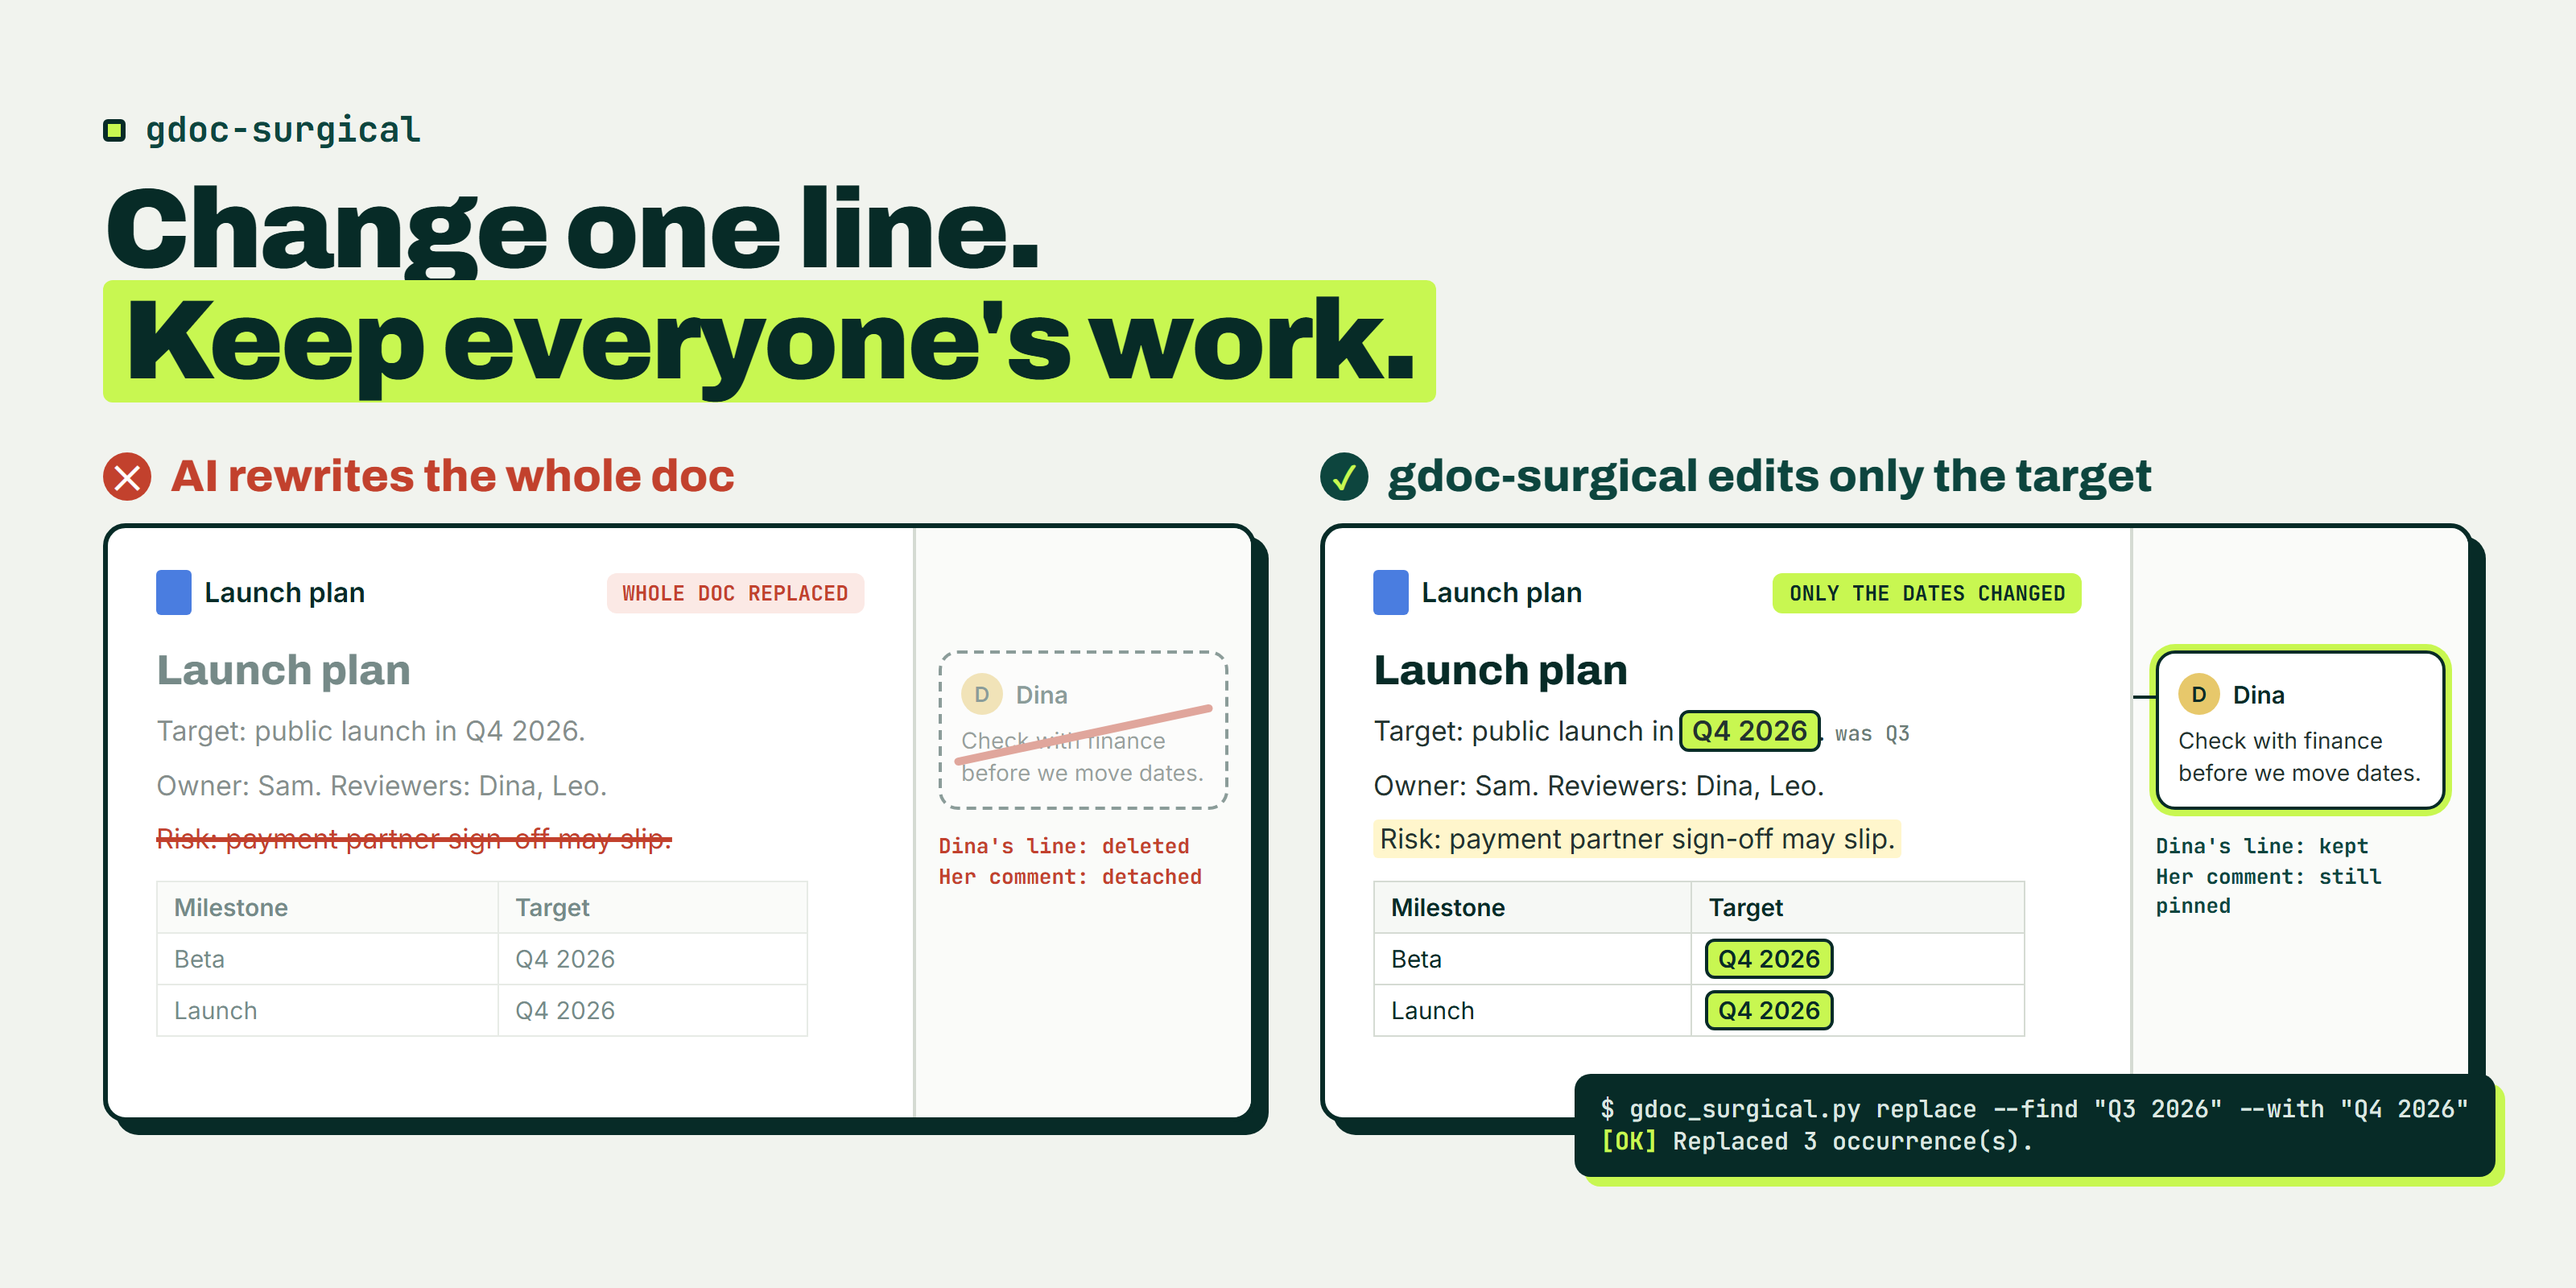
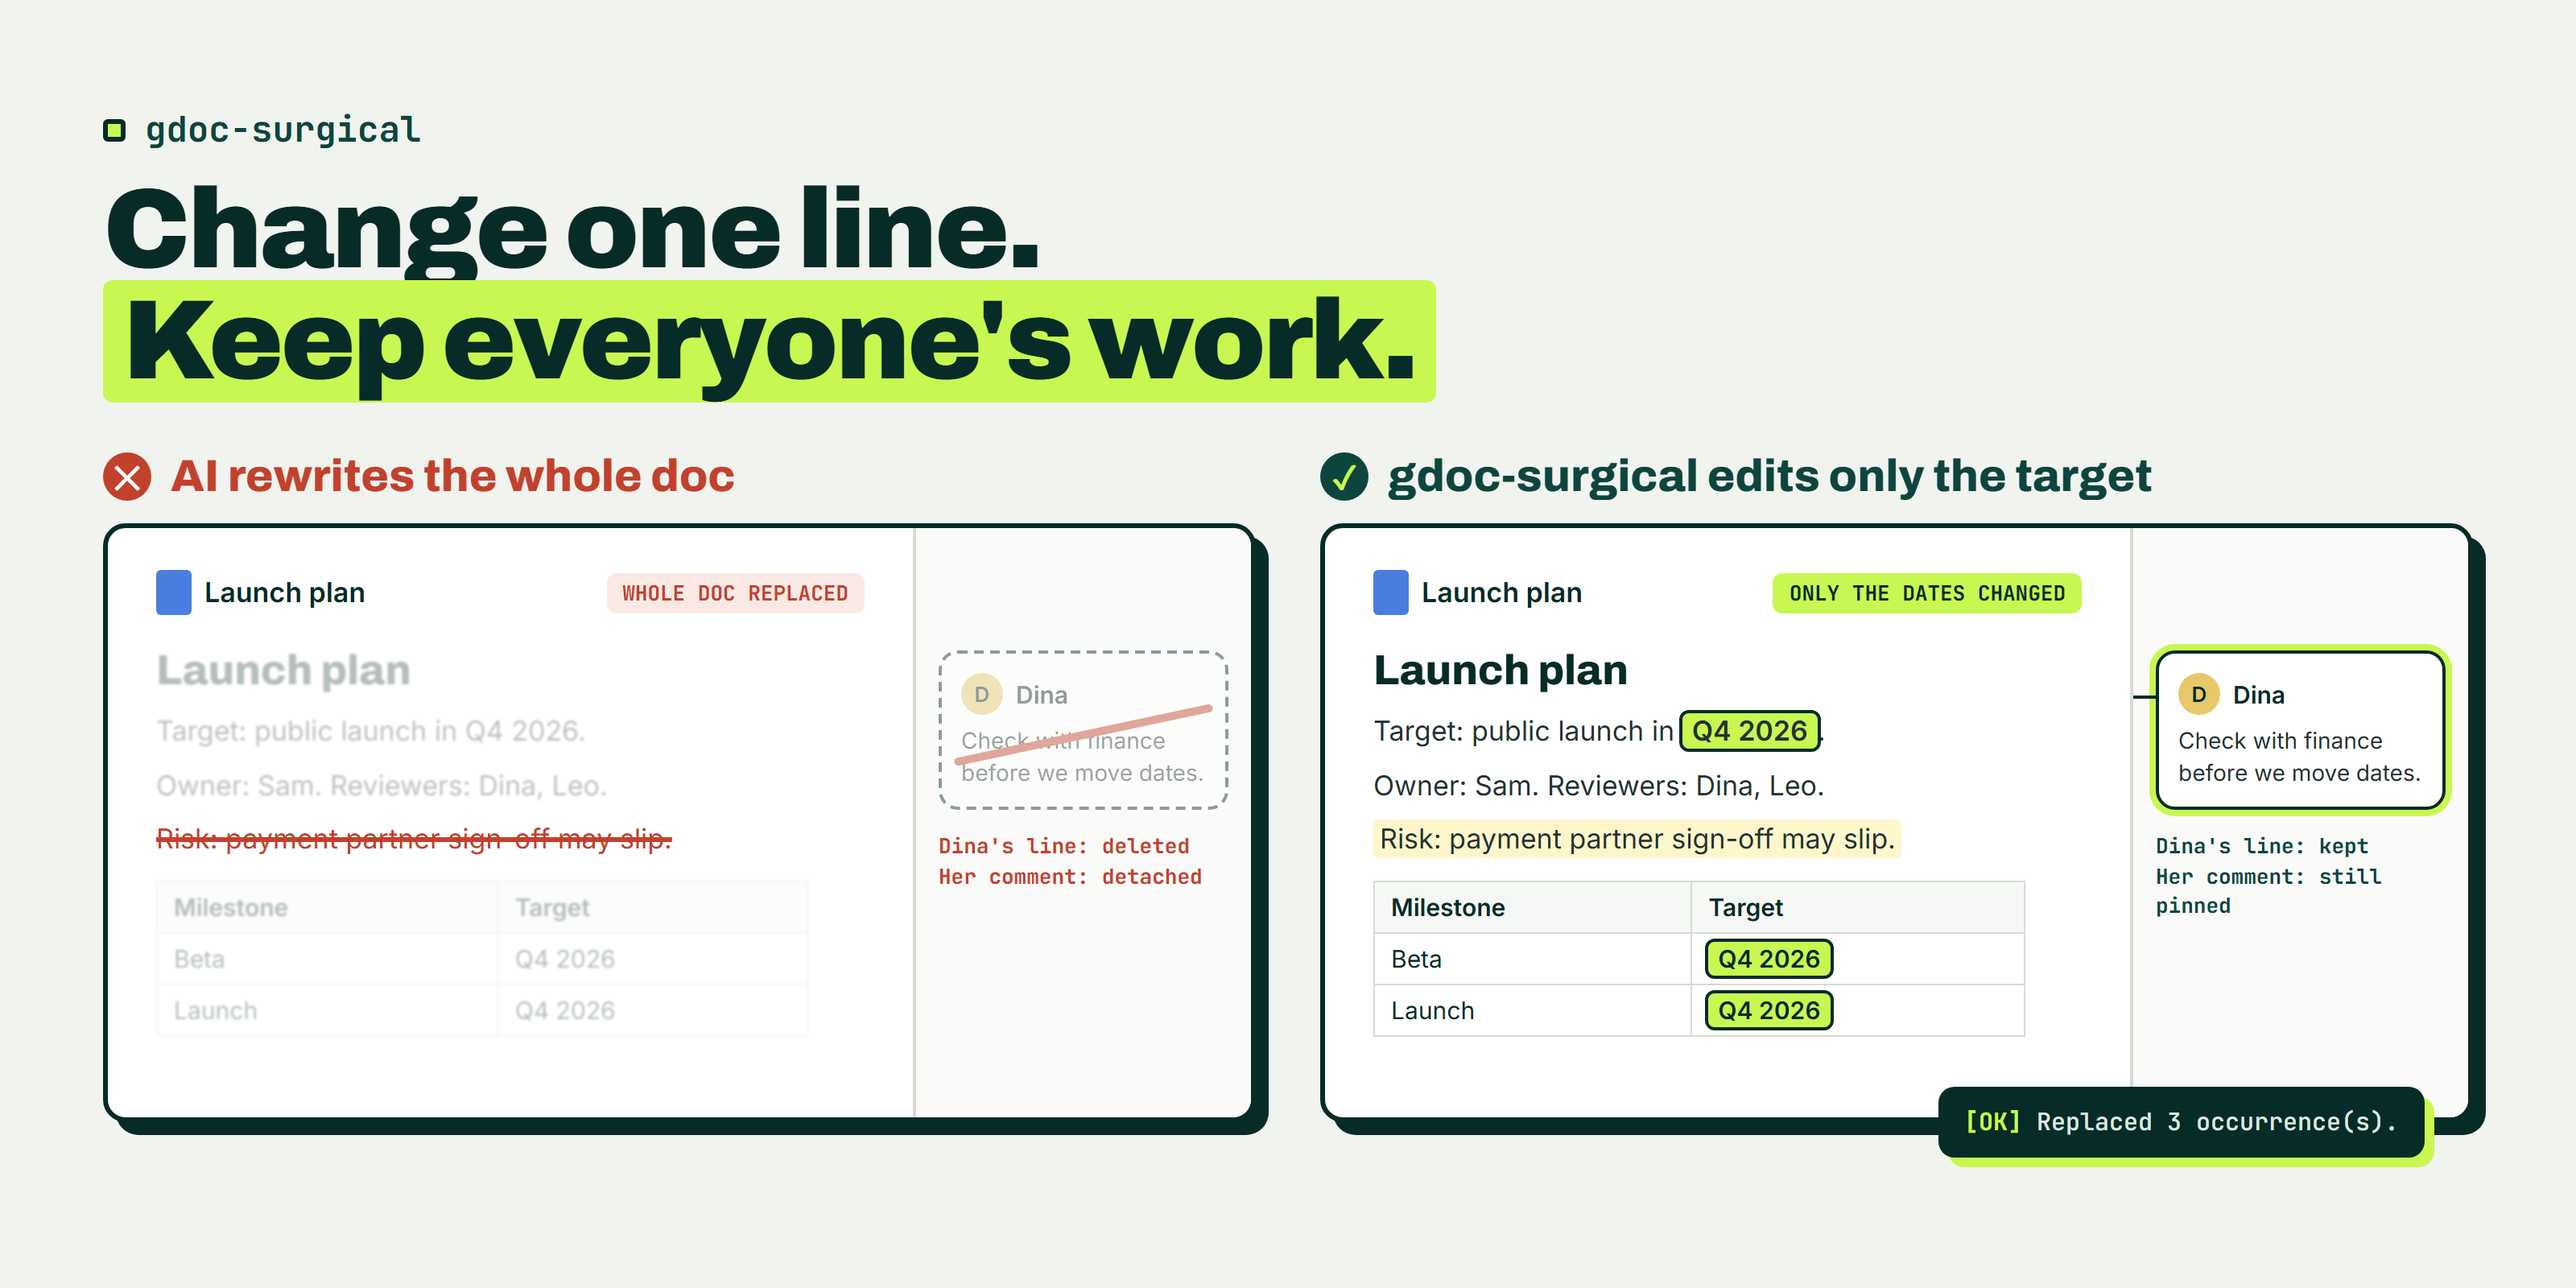
docs(readme): tighten hero and demo GIF; replace counts table cells, read shows table rows

diff --git a/docs/src/demo.html b/docs/src/demo.html
@@ -6,18 +6,18 @@
 <style>
   :root { --paper:#F1F3EE; --field:#0D453E; --ink:#072B27; --signal:#C8F751; }
   * { box-sizing: border-box; margin: 0; padding: 0; }
-  html, body { width: 960px; height: 540px; background: var(--paper); overflow: hidden; }
-  body { padding: 22px 26px; font-family: 'JetBrains Mono', Consolas, monospace; }
-  .win { height: 496px; background: var(--ink); border-radius: 12px; border: 3px solid var(--ink);
+  html, body { width: 800px; height: 450px; background: var(--paper); overflow: hidden; }
+  body { padding: 14px 18px 20px 14px; font-family: 'JetBrains Mono', Consolas, monospace; }
+  .win { height: 416px; background: var(--ink); border-radius: 12px; border: 3px solid var(--ink);
          box-shadow: 7px 7px 0 var(--field); display: flex; flex-direction: column; overflow: hidden; }
-  .chrome { height: 36px; background: #0A3833; display: flex; align-items: center; padding: 0 14px; gap: 8px; }
+  .chrome { height: 32px; background: #0A3833; display: flex; align-items: center; padding: 0 14px; gap: 8px; }
   .chrome i { width: 12px; height: 12px; border-radius: 50%; background: #2C5C55; display: block; }
   .chrome span { margin-left: 12px; color: #9DB7AF; font-size: 13px; }
   .chrome b { margin-left: auto; font-family: 'Archivo', sans-serif; font-size: 13px; color: var(--ink);
               background: var(--signal); padding: 3px 9px; border-radius: 5px; }
-  .screen { flex: 1; padding: 14px 18px; color: #DDE7E2; font-size: 15px; line-height: 1.55;
-            display: flex; flex-direction: column; justify-content: flex-end; overflow: hidden; }
-  .l { white-space: pre-wrap; word-break: break-word; min-height: 1.55em; flex-shrink: 0; }
+  .screen { flex: 1; padding: 10px 12px; color: #DDE7E2; font-size: 15px; line-height: 1.4;
+            display: flex; flex-direction: column; justify-content: flex-start; overflow: hidden; letter-spacing: -0.2px; }
+  .l { white-space: pre-wrap; word-break: break-word; min-height: 1.4em; flex-shrink: 0; }
   .old { outline: 2px dashed #9DB7AF; outline-offset: 1px; border-radius: 3px; }
   .prompt { color: var(--signal); }
   .cmd { color: #fff; }
@@ -25,8 +25,8 @@
   .info { color: #9DB7AF; }
   .hl { background: var(--signal); color: var(--ink); padding: 0 3px; border-radius: 3px; font-weight: 700; }
   .keep { background: #164F47; border-left: 3px solid var(--signal); margin-left: -8px; padding-left: 5px; }
-  .note { color: var(--ink); background: var(--signal); font-family: 'Archivo', sans-serif; font-size: 14px;
-          padding: 1px 8px; border-radius: 4px; margin-left: 10px; white-space: nowrap; }
+  .note { color: var(--ink); background: var(--signal); font-family: 'Archivo', sans-serif; font-size: 13px;
+          padding: 0 6px; border-radius: 4px; margin-left: 8px; white-space: nowrap; }
   .cursor { display: inline-block; width: 9px; height: 17px; background: var(--signal); vertical-align: -3px; }
 </style>
 </head>
@@ -38,7 +38,7 @@
 <script>
 // Real output captured from docs/src/offline_demo.py, see demo_session.json.
 const SESSION = __SESSION__;
-const CHAR_MS = 28, PAUSE_AFTER_CMD = 350, LINE_MS = 90, GAP = 1300;
+const CHAR_MS = 14, PAUSE_AFTER_CMD = 300, LINE_MS = 80, GAP = 1300, END_HOLD = 2600, MAX_LINES = 16;
 
 function esc(t) { return t.replace(/&/g,'&amp;').replace(/</g,'&lt;'); }
 function deco(line, step) {
@@ -48,20 +48,22 @@ function deco(line, step) {
   if (step === 0 && line.includes("Q3 2026")) return h.replace("Q3 2026", "<span class=\"old\">Q3 2026</span>");
   if (step === 2) {
     if (line.includes('Q4 2026')) return h.replace('Q4 2026', '<span class="hl">Q4 2026</span>') + '<span class="note">changed</span>';
-    if (line.includes('added by Dina')) return '<span class="keep">' + h + '</span><span class="note">untouched</span>';
+    if (line.includes('Dina, Leo')) return h;
+    if (line.includes('added by Dina')) return '<span class="keep">' + h + '</span><span class="note">kept</span>';
   }
   return h;
 }
 // Build a timeline of states: each event at a time t (ms).
-const events = []; let t = 600;
+const events = []; let t = 0;
 SESSION.forEach((s, i) => {
+  if (i === 0) { events.push({t:0, step:0, typed:s.cmd.length, lines:s.out.split('\n').length}); t = 1800; return; }
   for (let c = 0; c <= s.cmd.length; c++) { events.push({t, step:i, typed:c, lines:0}); t += CHAR_MS; }
   t += PAUSE_AFTER_CMD;
   const lines = s.out.split('\n');
   for (let k = 1; k <= lines.length; k++) { events.push({t, step:i, typed:s.cmd.length, lines:k}); t += LINE_MS; }
   t += GAP;
 });
-window.TOTAL_MS = t + 1200;
+window.TOTAL_MS = t - GAP + END_HOLD;
 
 window.renderAt = function(ms) {
   let ev = events[0];
@@ -79,7 +81,9 @@ window.renderAt = function(ms) {
   }
   const finished = ev.step === SESSION.length - 1 && ev.lines === SESSION[ev.step].out.split('\n').length;
   if (finished) out.push('<div class="l"><span class="prompt">$ </span><span class="cursor"></span></div>');
-  document.getElementById('s').innerHTML = out.join('');
+  const el = document.getElementById('s');
+  el.innerHTML = out.join('');
+  while (el.scrollHeight > el.clientHeight && el.firstChild) el.removeChild(el.firstChild);
 };
 </script>
 </body>

diff --git a/docs/src/hero.html b/docs/src/hero.html
@@ -56,10 +56,9 @@
   .p { font-size: 17px; line-height: 1.5; margin-bottom: 8px; color: #23332F; position: relative; }
   .hl { background: var(--signal); padding: 1px 6px; border-radius: 4px; font-weight: 600;
         outline: 2px solid var(--ink); }
-  .was { font-family: var(--mono); font-size: 13px; color: var(--muted); margin-left: 6px; }
   .risk { background: #FFF6CC; padding: 2px 4px; border-radius: 3px; }
-  .rewritten .p, .rewritten .h, .rewritten table { opacity: 0.55; }
-  .rewritten .gone { opacity: 1; color: var(--red); text-decoration: line-through;
+  .rewritten .p, .rewritten .h, .rewritten table { opacity: 0.3; filter: blur(0.7px); }
+  .rewritten .gone { opacity: 1; filter: none; color: var(--red); text-decoration: line-through;
                      text-decoration-thickness: 3px; }
   table { border-collapse: collapse; margin-top: 12px; width: 92%; font-size: 15px; }
   td { border: 1.5px solid var(--line); padding: 6px 10px; }
@@ -81,7 +80,7 @@
   .bad .stamp { color: var(--red); }
   .good .stamp { color: var(--field); }
 
-  .term { position: absolute; right: -14px; bottom: -34px; background: var(--ink); color: #DDE7E2;
+  .term { position: absolute; right: 30px; bottom: -22px; background: var(--ink); color: #DDE7E2;
           font-family: var(--mono); font-size: 15px; padding: 12px 16px; border-radius: 10px;
           box-shadow: 6px 6px 0 var(--signal); }
   .term b { color: var(--signal); }
@@ -130,7 +129,7 @@
         <div class="doc">
           <div class="bar"><span class="ic"></span><span class="t">Launch plan</span><span class="tag">ONLY THE DATES CHANGED</span></div>
           <div class="h">Launch plan</div>
-          <div class="p">Target: public launch in <span class="hl">Q4 2026</span>.<span class="was">was Q3</span></div>
+          <div class="p">Target: public launch in <span class="hl">Q4 2026</span>.</div>
           <div class="p">Owner: Sam. Reviewers: Dina, Leo.</div>
           <div class="p"><span class="risk">Risk: payment partner sign-off may slip.</span></div>
           <table>
@@ -148,7 +147,7 @@
           <div class="stamp">Dina's line: kept<br>Her comment: still pinned</div>
         </div>
       </div>
-      <div class="term">$ gdoc_surgical.py replace --find "Q3 2026" --with "Q4 2026"<br><b>[OK]</b> Replaced 3 occurrence(s).</div>
+      <div class="term"><b>[OK]</b> Replaced 3 occurrence(s).</div>
     </div>
   </div>
 </body>

diff --git a/gdoc_surgical.py b/gdoc_surgical.py
@@ -394,6 +394,8 @@ def cmd_read(docs, args):
             print('[%d-%d] <TABLE #%d: %sx%s>'
                   % (el['startIndex'], el['endIndex'], t_idx,
                      el['table'].get('rows'), el['table'].get('columns')))
+            for r_i, row in enumerate(table_rows_text(el)):
+                print('    row %d | %s' % (r_i, ' | '.join(row)))
             t_idx += 1
     return 0
 
@@ -414,11 +416,16 @@ def cmd_list_tables(docs, args):
 
 def cmd_replace(docs, args):
     doc = get_doc(docs, args.id)
-    body = ''.join(para_text(el) for kind, el in walk_body(doc) if kind == 'paragraph')
     flags = 0 if args.match_case else re.IGNORECASE
-    n = len(re.findall(re.escape(args.find), body, flags))
-    print("[INFO] '%s' found %dx in body paragraphs. Table cells are not counted "
-          'here, and the replace does hit those too.' % (args.find, n))
+    pattern = re.escape(args.find)
+    body = ''.join(para_text(el) for kind, el in walk_body(doc) if kind == 'paragraph')
+    cells = '\n'.join(cell_text(c) for t in tables_in(doc)
+                      for row in t['table'].get('tableRows', [])
+                      for c in row.get('tableCells', []))
+    n_body = len(re.findall(pattern, body, flags))
+    n_cells = len(re.findall(pattern, cells, flags))
+    print("[INFO] Found '%s' %d time(s): %d in paragraphs, %d in table cells."
+          % (args.find, n_body + n_cells, n_body, n_cells))
     result = batch(docs, args.id, [{'replaceAllText': {
         'containsText': {'text': args.find, 'matchCase': bool(args.match_case)},
         'replaceText': getattr(args, 'with')}}])

diff --git a/docs/src/render_demo.py b/docs/src/render_demo.py
@@ -53,7 +53,7 @@ def render():
         fh.write(html)
     with sync_playwright() as p:
         browser = p.chromium.launch()
-        page = browser.new_page(viewport={'width': 960, 'height': 540})
+        page = browser.new_page(viewport={'width': 800, 'height': 450})
         page.goto('file:///' + page_path.replace('\\', '/'))
         page.wait_for_load_state('networkidle')
         page.evaluate('document.fonts.ready')

diff --git a/docs/how-it-works.md b/docs/how-it-works.md
@@ -41,7 +41,7 @@ flowchart LR
 Every destructive command targets an index, and indexes move the moment somebody else edits the document. So each one refuses to guess:
 
 - **`delete-row` wants `--expect`, and `set-cell` takes it.** It is text that must already be in the target. A shifted index then fails loudly instead of quietly editing the wrong row. This is what makes the tool safe to run unattended. `delete-row` refuses to run without it.
-- **`replace` reports the occurrence count before it writes**, and exits 2 when it changed nothing. A silent zero-match usually means the wording is not what you remembered. The pre-write count covers body paragraphs only. The replace itself also hits table cells, and the `[OK]` line reports the true total.
+- **`replace` reports the occurrence count before it writes**, and exits 2 when it changed nothing. A silent zero-match usually means the wording is not what you remembered. The pre-write count covers body paragraphs and top-level table cells. The `[OK]` line reports the total the API actually changed.
 - **Revision tables cannot go backwards.** `insert-row`, and `set-cell` on column 0, check the first cell against every version already in the first column of that table. Writing `v1.2` into a table that already has `v1.3` is refused, and the message names the next valid number. A version number that goes backwards is invisible: the row looks right and the reader trusts a version that is older than the text above it. Override with `--allow-version-regression`, only for a deliberate duplicate. The check reads `major.minor` tokens such as `v1.3` or `1.3`, and a table without them passes through.
 - **Every write is verified.** An API response with no document id in it is reported as a failure, never as a quiet success.
 

diff --git a/README.md b/README.md
@@ -25,7 +25,7 @@
 - **Works on tables too.** Change one cell or add one row, and the rest of the table stays as it was.
 - **Works from plain words.** Ask your AI agent, for example Claude Code, and it runs the commands.
 
-![A terminal types three real gdoc-surgical commands against an offline sample doc. read lists every paragraph with its index, with Q3 2026 outlined. replace changes Q3 2026 to Q4 2026 and prints "OK, Replaced 3 occurrence(s)". A second read shows the target line now reads Q4 2026, tagged changed, and the risk line added by Dina, tagged untouched](docs/demo.gif)
+![A terminal runs three real gdoc-surgical commands against an offline sample doc. read lists every paragraph and the timeline table rows, with Q3 2026 outlined three times. replace reports 1 match in paragraphs and 2 in table cells, then "OK, Replaced 3 occurrence(s)". A second read shows Q4 2026 on the target line and in both table rows, tagged changed, and the risk line added by Dina, tagged kept](docs/demo.gif)
 
 *Real output, recorded offline against a sample doc: [docs/src/offline_demo.py](docs/src/offline_demo.py) runs the same commands with no Google account.*
 

diff --git a/docs/commands.md b/docs/commands.md
@@ -6,7 +6,7 @@
 
 | Command | What you get | Use it for |
 | :--- | :--- | :--- |
-| `read` | The document as text, each paragraph with its start and end index, each table as `<TABLE #n: rows x cols>` | Finding the exact target before any write |
+| `read` | The document as text, each paragraph with its start and end index, each table as `<TABLE #n: rows x cols>` followed by its rows | Finding the exact target before any write |
 | `list-tables` | Every table with its index, size, start index and header row | Picking the right `--table` number |
 | `replace` | Every occurrence of exact text replaced, body and table cells. Prints the body-paragraph count before it writes, the total changed after, and exits 2 on zero | Renaming a feature across a doc. Moving a target date |
 | `linkify` | Every occurrence hyperlinked, including inside table cells. Only the link style changes, never the words. Exits 2 when the text is not found | Linking tickets or a roadmap wherever they are named |

diff --git a/CHANGELOG.md b/CHANGELOG.md
@@ -13,6 +13,10 @@ and the project uses [Semantic Versioning](https://semver.org/).
 ### Added
 - `--version` prints the version, and `--changelog` prints this changelog (a list of versions, or `full` for the whole file).
 - This `CHANGELOG.md`, backfilled from the git history.
+- `read` prints the rows of each table under its `<TABLE #n>` line, so table text can be checked before a write.
+
+### Changed
+- `replace` counts matches in table cells too before it writes, and reports the split: `Found 'X' 3 time(s): 1 in paragraphs, 2 in table cells.`
 
 ## [1.0.0] - 2026-09-22
 <!-- source: git commit 29c8b59 "gdoc-surgical: edit a Google Doc in place instead of overwriting it" (2026-09-22 13:18 +0700), the initial and only commit. No git tag or GitHub release exists; 1.0.0 labels this first public cut. -->
